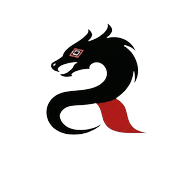
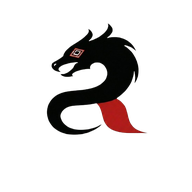
Fix: Remove PWA maskable setting to allow transparent background

diff --git a/vite.config.js b/vite.config.js
@@ -27,7 +27,7 @@ export default defineConfig({
             src: '/pwa-512x512.png',
             sizes: '512x512',
             type: 'image/png',
-            purpose: 'any maskable'
+            purpose: 'any'
           }
         ]
       },
